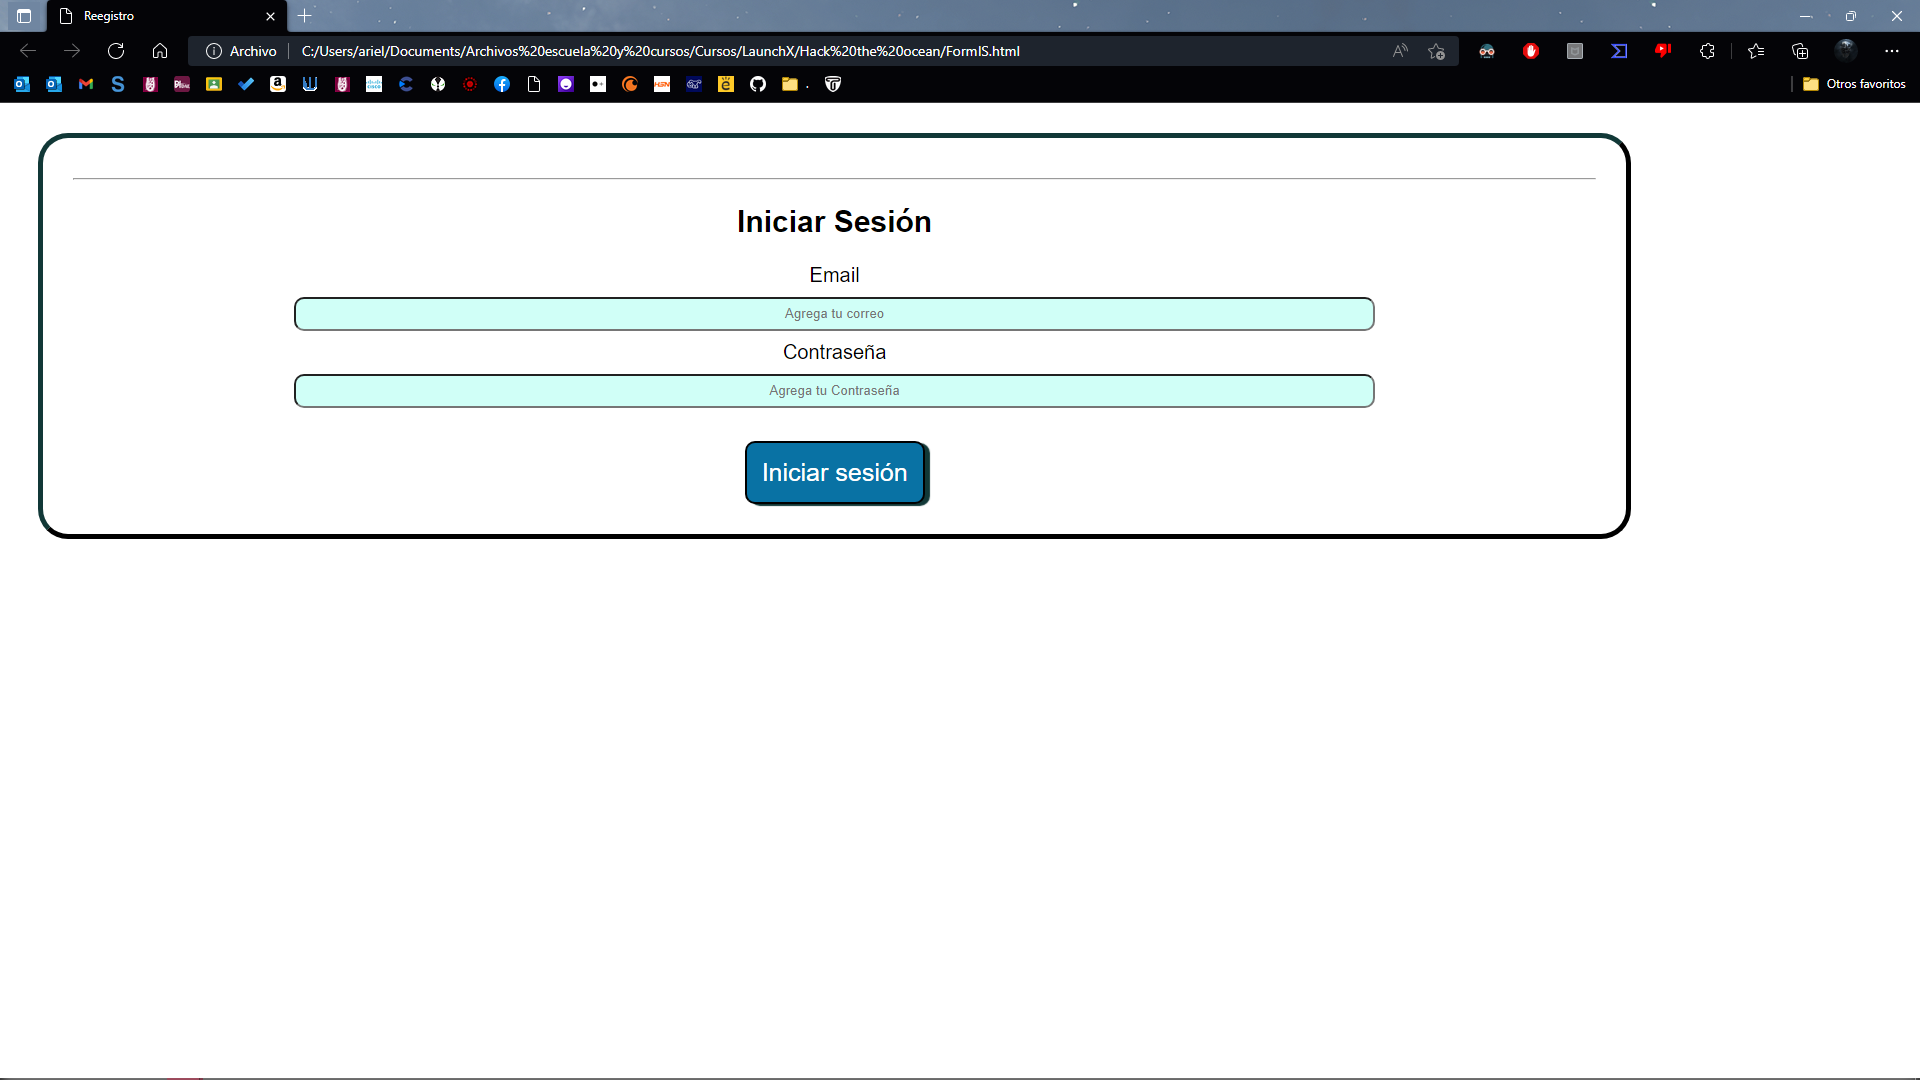
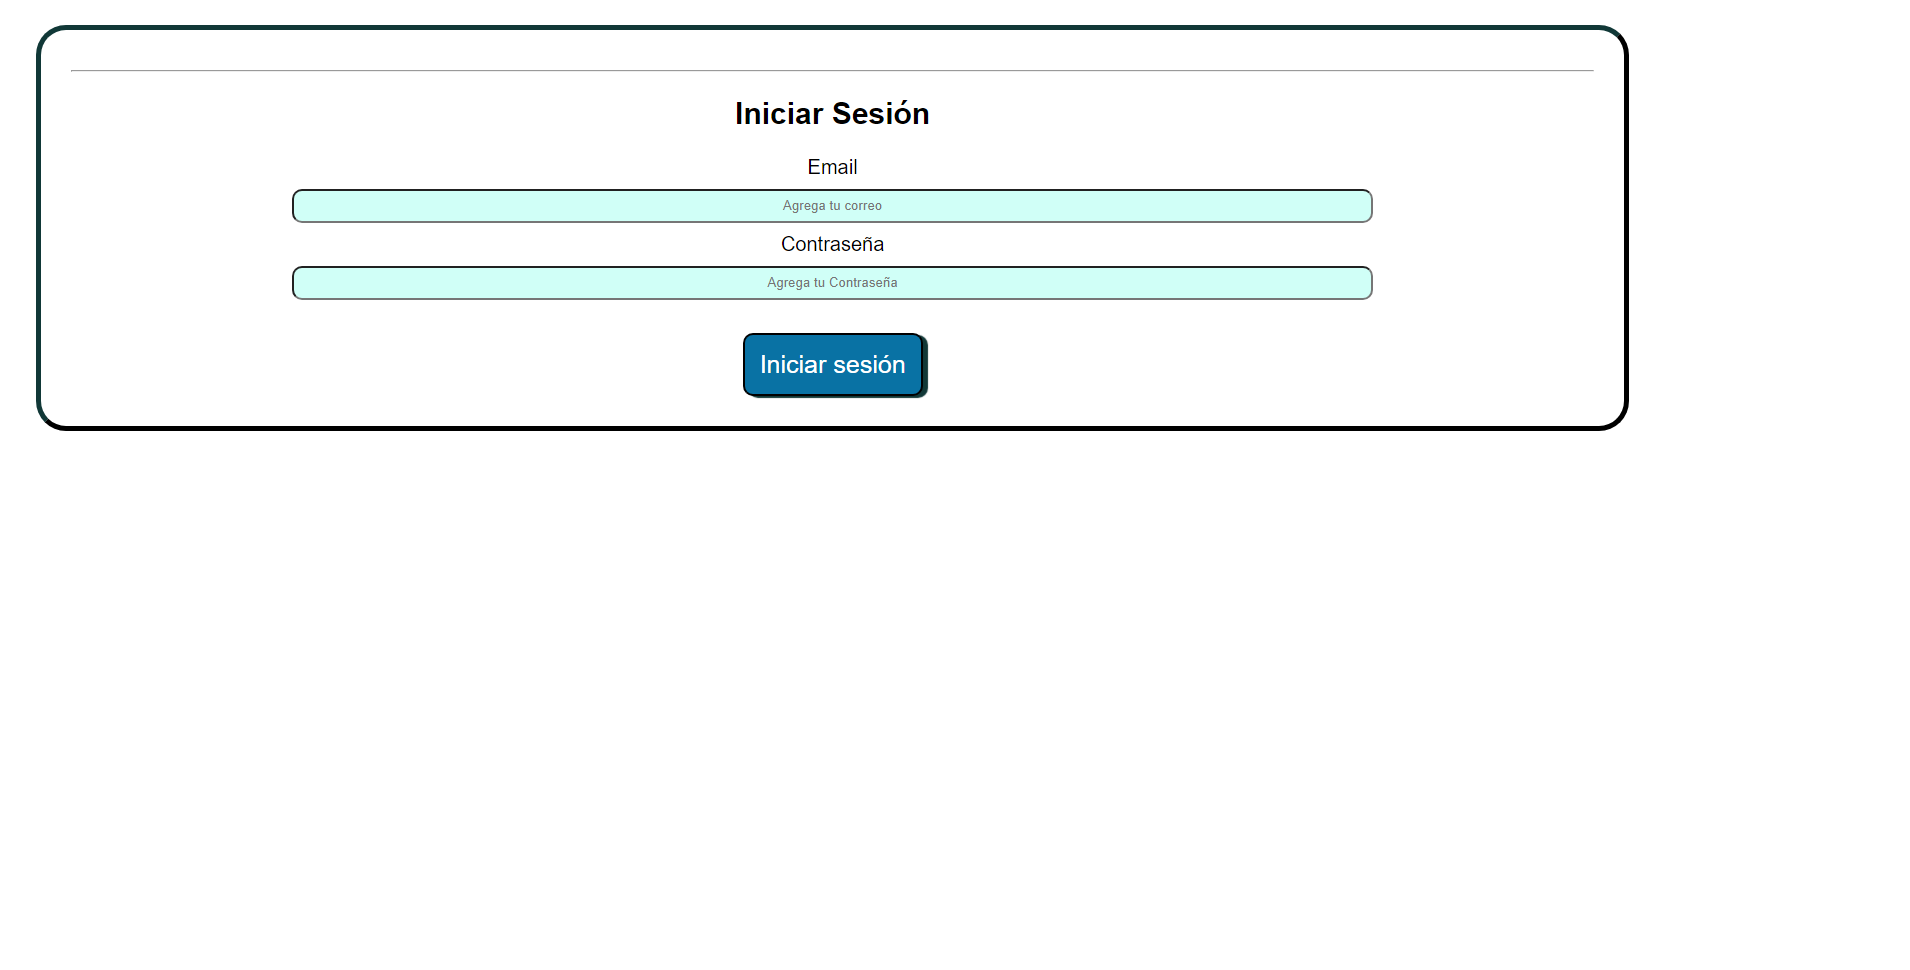
Ajuste de imagenes

Changed region(s): [[0.0, 0.0, 1.0, 0.5258], [0.0, 0.9897, 1.0, 1.0]]

diff --git a/README.md b/README.md
@@ -3,4 +3,8 @@
 Existen múltiples problemas ambientales en los mares y océanos.Nos hacen falta manos para poder solventar las distintas necesidades, necesitamos limpiar las playas, salvar a nuestros animales. Por ello la mejor manera de contribuir es a través de la acción.
 ## Solución
 Plataforma para reportar problemas ambientales y voluntarios puedan solucionar. Además de aceptar donativos para los distintos problemas.
+
+
 ![Selección solución](https://github.com/z750mm13/hack-the-ocean/blob/main/screenshots/Captura%20de%20pantalla%20de%202022-05-15%2018-41-56.png?raw=true)
+
+![Pagina principal](https://github.com/z750mm13/hack-the-ocean/blob/main/screenshots/Captura%20de%20pantalla%20de%202022-05-15%2018-41-56.png?raw=true)
